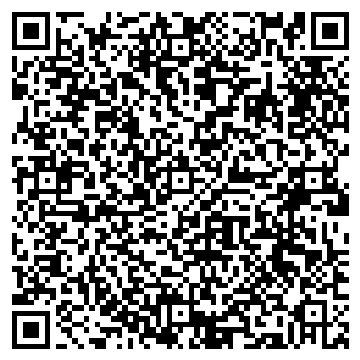
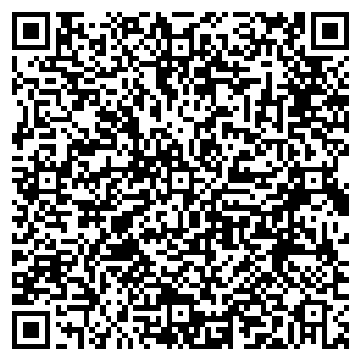
Instagram handle locked: @oouucchh — links, settings and contact QR updated
Account itself to be created by the founder (signup requires their
credentials). Links go live the moment the handle is claimed.

diff --git a/src/components/Footer.tsx b/src/components/Footer.tsx
@@ -55,9 +55,9 @@ export async function Footer() {
                     </a>
                   </li>
                   <li>
-                    <a className="inline-flex items-center gap-2.5 hover:text-pink" href={settings.instagramUrl || 'https://instagram.com/ouch.piercings'} rel="noopener noreferrer" target="_blank">
+                    <a className="inline-flex items-center gap-2.5 hover:text-pink" href={settings.instagramUrl || 'https://instagram.com/oouucchh'} rel="noopener noreferrer" target="_blank">
                       <svg fill="none" height="16" stroke="currentColor" strokeWidth="2" viewBox="0 0 24 24" width="16"><rect height="18" rx="5" width="18" x="3" y="3" /><circle cx="12" cy="12" r="4" /><circle cx="17.5" cy="6.5" fill="currentColor" r="1" stroke="none" /></svg>
-                      @ouch.piercings
+                      @oouucchh
                     </a>
                   </li>
                   <li className="inline-flex items-center gap-2.5">
